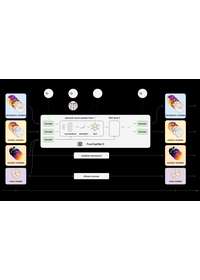
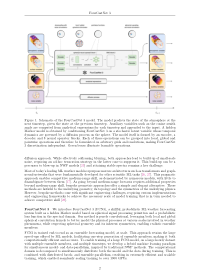
tweaks

diff --git a/bin/generate_publication_previews.py b/bin/generate_publication_previews.py
@@ -3,17 +3,17 @@
 Generate publication thumbnails for al-folio (preview={...} in papers.bib).
 
 Uses only the `pdf={...}` field from each BibTeX entry (http(s) URL or site path like `/files/thesis.pdf`).
-Picks the first page with a figure drawn large enough on the page (PyMuPDF), else page 1.
-Renders the full page, scaled to fit without cropping.
+Picks the first page with a large on-page figure, else the first page with a
+"Figure 1" caption, else the page with the largest embedded image, else page 1.
+Renders every thumbnail to a fixed 200×280 canvas (letterboxed).
 
 Usage:
   python3 bin/generate_publication_previews.py [--dry-run] [--force] [--clear] [--update-bib]
   python3 bin/generate_publication_previews.py --keys bonev2025fourcastnet3
 
-Requires: network for downloads. For PDF rendering, one of:
-  pdftoppm (poppler-utils), or gs (ghostscript).
-Optional: `pip install pymupdf` (recommended — detects figure pages)
-Image resize: ImageMagick `convert` or `magick` (optional; copies raw PNG if missing).
+Requires: network for downloads.
+Recommended: `pip install pymupdf Pillow` (page picking + rendering).
+Fallback rendering: pdftoppm (poppler-utils) or gs, plus ImageMagick for resize.
 
 Runs automatically in GitHub Actions before `jekyll build` (see .github/workflows/deploy.yml).
 Locally: `python3 bin/generate_publication_previews.py`
@@ -34,13 +34,18 @@ ROOT = Path(__file__).resolve().parents[1]
 BIB = ROOT / "_bibliography" / "papers.bib"
 OUT = ROOT / "assets" / "img" / "publication_preview"
 MANIFEST = ROOT / "_data" / "generated_previews.yml"
-# Max width × height; entire page visible (no crop). Matches publication list CSS.
-PREVIEW_MAX = "200x280"
+# Output size; matches publication list CSS.
+PREVIEW_W = 200
+PREVIEW_H = 280
+PREVIEW_MAX = f"{PREVIEW_W}x{PREVIEW_H}"
 UA = "ai-folio-preview-generator/1.0"
-# Minimum drawn figure size on the page (PDF points; 72 pt ≈ 1 inch).
-MIN_FIGURE_ON_PAGE_WIDTH = 150
-MIN_FIGURE_ON_PAGE_HEIGHT = 100
-MAX_PAGES_SCAN = 12
+MAX_PAGES_SCAN = 24
+# Figure must be a substantial part of the page (not logos/icons).
+MIN_FIGURE_WIDTH_FRAC = 0.22
+MIN_FIGURE_HEIGHT_FRAC = 0.12
+MIN_FIGURE_AREA_FRAC = 0.04
+BODY_MARGIN_Y = 0.07
+FIGURE_ONE_RE = re.compile(r"\b(?:Figure|Fig\.?)\s+1\b", re.IGNORECASE)
 
 
 def _http_get(url: str, timeout: int = 60) -> bytes:
@@ -207,8 +212,12 @@ def render_pdf_page(pdf: Path, page: int, out_png: Path) -> bool:
     return False
 
 
-def page_has_large_figure(page) -> bool:
-    """True if the page draws any embedded image above the minimum on-page size."""
+def _rect_in_body(rect, page_rect) -> bool:
+    cy = (rect.y0 + rect.y1) / 2
+    return BODY_MARGIN_Y * page_rect.height < cy < (1 - BODY_MARGIN_Y) * page_rect.height
+
+
+def _iter_image_rects(page):
     seen: set[int] = set()
     for img in page.get_images(full=True):
         xref = img[0]
@@ -216,42 +225,99 @@ def page_has_large_figure(page) -> bool:
             continue
         seen.add(xref)
         try:
-            rects = page.get_image_rects(xref)
+            yield from page.get_image_rects(xref)
         except Exception:
             continue
-        for rect in rects:
-            if (
-                rect.width >= MIN_FIGURE_ON_PAGE_WIDTH
-                and rect.height >= MIN_FIGURE_ON_PAGE_HEIGHT
-            ):
-                return True
+
+
+def page_has_large_figure(page) -> bool:
+    """True if the page draws a substantial figure in the body (not header/footer)."""
+    pw, ph = page.rect.width, page.rect.height
+    page_rect = page.rect
+    for rect in _iter_image_rects(page):
+        if not _rect_in_body(rect, page_rect):
+            continue
+        if (
+            rect.width >= MIN_FIGURE_WIDTH_FRAC * pw
+            and rect.height >= MIN_FIGURE_HEIGHT_FRAC * ph
+            and rect.width * rect.height >= MIN_FIGURE_AREA_FRAC * pw * ph
+        ):
+            return True
     return False
 
 
-def first_page_with_large_figure(pdf: Path) -> int | None:
-    """Return 1-based index of the first page with a large enough on-page figure."""
-    try:
-        import fitz  # PyMuPDF
-    except ImportError:
-        return None
-
-    doc = fitz.open(pdf)
-    try:
-        limit = min(MAX_PAGES_SCAN, doc.page_count)
-        for pno in range(limit):
-            if page_has_large_figure(doc[pno]):
-                return pno + 1
-    finally:
-        doc.close()
+def first_page_with_large_figure(doc) -> int | None:
+    limit = min(MAX_PAGES_SCAN, doc.page_count)
+    for pno in range(limit):
+        if page_has_large_figure(doc[pno]):
+            return pno + 1
     return None
 
 
-def choose_thumbnail_page(pdf_path: Path) -> tuple[int, str]:
+def first_page_with_figure1_caption(doc) -> int | None:
+    """First non-title page mentioning Figure 1 (helps vector-only PDFs)."""
+    limit = min(MAX_PAGES_SCAN, doc.page_count)
+    for pno in range(1, limit):
+        if FIGURE_ONE_RE.search(doc[pno].get_text() or ""):
+            return pno + 1
+    return None
+
+
+def page_with_largest_embedded_image(doc) -> int | None:
+    limit = min(MAX_PAGES_SCAN, doc.page_count)
+    best_page: int | None = None
+    best_area = 0.0
+    for pno in range(limit):
+        page = doc[pno]
+        page_area = page.rect.width * page.rect.height
+        for rect in _iter_image_rects(page):
+            area = rect.width * rect.height
+            if area >= 0.02 * page_area and area > best_area:
+                best_area = area
+                best_page = pno + 1
+    return best_page
+
+
+def choose_thumbnail_page(doc) -> tuple[int, str]:
     """Pick page to render. Returns (page_number, reason_tag)."""
-    figure_page = first_page_with_large_figure(pdf_path)
+    figure_page = first_page_with_large_figure(doc)
     if figure_page is not None:
         return figure_page, "figure-page"
+    caption_page = first_page_with_figure1_caption(doc)
+    if caption_page is not None:
+        return caption_page, "figure-1"
+    largest = page_with_largest_embedded_image(doc)
+    if largest is not None:
+        return largest, "largest-image"
     return 1, "first-page"
+
+
+def render_page_normalized(doc, page: int, dest: Path) -> bool:
+    """Render a PDF page to a fixed PREVIEW_W×PREVIEW_H PNG."""
+    import fitz
+
+    if page < 1 or page > doc.page_count:
+        return False
+    pg = doc[page - 1]
+    pw, ph = pg.rect.width, pg.rect.height
+    scale = min(PREVIEW_W / pw, PREVIEW_H / ph)
+    pix = pg.get_pixmap(matrix=fitz.Matrix(scale, scale), alpha=False)
+
+    try:
+        from PIL import Image
+    except ImportError:
+        tmp = dest.with_suffix(".raw.png")
+        pix.save(tmp)
+        resize_png(tmp, dest)
+        tmp.unlink(missing_ok=True)
+        return dest.is_file()
+
+    img = Image.frombytes("RGB", (pix.width, pix.height), pix.samples)
+    canvas = Image.new("RGB", (PREVIEW_W, PREVIEW_H), (255, 255, 255))
+    canvas.paste(img, ((PREVIEW_W - img.width) // 2, (PREVIEW_H - img.height) // 2))
+    dest.parent.mkdir(parents=True, exist_ok=True)
+    canvas.save(dest, "PNG")
+    return True
 
 
 def generate_preview(entry: dict, out: Path, dry_run: bool) -> str:
@@ -263,7 +329,6 @@ def generate_preview(entry: dict, out: Path, dry_run: bool) -> str:
 
     with tempfile.TemporaryDirectory(prefix="folio-preview-") as tmp:
         tmpdir = Path(tmp)
-        raw = tmpdir / "raw.png"
         pdf_path = tmpdir / "paper.pdf"
 
         if isinstance(pdf_src, Path):
@@ -274,11 +339,22 @@ def generate_preview(entry: dict, out: Path, dry_run: bool) -> str:
             if not download_pdf(pdf_src, pdf_path):
                 return ""
 
-        page, reason = choose_thumbnail_page(pdf_path)
+        page, reason = 1, "first-page"
+        try:
+            import fitz
+
+            doc = fitz.open(pdf_path)
+            page, reason = choose_thumbnail_page(doc)
+            if render_page_normalized(doc, page, out):
+                doc.close()
+                return f"{reason}-{page}"
+            doc.close()
+        except ImportError:
+            pass
+
         page_png = tmpdir / "thumb.png"
         if render_pdf_page(pdf_path, page, page_png):
-            shutil.copy2(page_png, raw)
-            resize_png(raw, out)
+            resize_png(page_png, out)
             return f"{reason}-{page}"
 
     return ""

diff --git a/_pages/about.md b/_pages/about.md
@@ -8,9 +8,6 @@ profile:
   align: right
   image: boris.jpg
   image_circular: true
-  address: >
-    <p><a href="https://scholar.google.com/citations?user=sYo-KS4AAAAJ">Google Scholar</a></p>
-    <p><a href="{{ '/assets/pdf/cv_boris.pdf' | relative_url }}">CV</a></p>
 
 news: false
 latest_posts: false
@@ -18,8 +15,6 @@ selected_papers: true
 social: true
 ---
 
-Boris Bonev is a Senior Research Scientist at NVIDIA Research in Zurich. His research lies at the intersection of numerical methods and machine learning for science and engineering, with emphasis on reliable AI for weather and climate prediction.
+Boris Bonev is a Senior Research Scientist at NVIDIA Research in Zurich. His research lies at the intersection of numerical methods and machine learning for science and engineering, with emphasis on reliable and trustworthy AI.
 
 He completed a Ph.D. in Applied Mathematics at the Swiss Federal Institute of Technology (EPFL) with Jan S. Hesthaven, after degrees in Physics and Aerospace Engineering from the University of Stuttgart. At NVIDIA, he worked under Anima Anandkumar and Alex Keller, and collaborated closely with Thorsten Kurth, Michael Pritchard, and William D. Collins. His recent work has focused on geometric neural operators for weather and climate prediction—including Spherical Fourier Neural Operators and related methods that have been adopted in FourCastNet, Huge Ensembles, ACE, and many other models. Earlier work spans hierarchical-matrix preconditioners and discontinuous Galerkin methods for wave problems.
-
-Further detail is on the [research]({{ '/research/' | relative_url }}) and [software]({{ '/software/' | relative_url }}) pages.

diff --git a/CONTENT.md b/CONTENT.md
@@ -27,11 +27,11 @@ Co-author links: add entries to [`_data/coauthors.yml`](_data/coauthors.yml) key
 
 ```bash
 sudo apt-get install -y poppler-utils ghostscript imagemagick   # once
-pip install pymupdf
+pip install pymupdf Pillow
 python3 bin/generate_publication_previews.py
 ```
 
-Add a direct link in the bib entry: `pdf={https://…/paper.pdf}` or `pdf={/files/your.pdf}` for site-local files. The script only reads `pdf=` (no URL guessing from `eprint` / `html`). It uses the first page where a figure is drawn large enough on the page (via PyMuPDF), otherwise page 1. The full page is scaled to fit without cropping.
+Add a direct link in the bib entry: `pdf={https://…/paper.pdf}` or `pdf={/files/your.pdf}` for site-local files. The script only reads `pdf=` (no URL guessing from `eprint` / `html`). It picks the first page with a large on-page figure, else the first page with a “Figure 1” caption, else the page with the largest embedded image, else page 1. All thumbnails are letterboxed to 200×280.
 
 **Clear and regenerate** (existing `{bibkey}.png` files are skipped unless you force):
 

diff --git a/_pages/research.md b/_pages/research.md
@@ -21,9 +21,9 @@ Much of this work has been applied to learned global weather and climate systems
 
 ## Numerical Methods
 
-My background is in numerical methods, with a focus on partial differential equations and numerical linear algebra. That training remains a source of inspiration for my ML work: stability, preconditioning, and multiscale structure show up in learned models, and ideas from ML feed back into how we build solvers and discretizations. I believe numerical methods and machine learning will ultimately form one cohesive field that integrates tools from both traditions.
+My background is in numerical methods, with a focus on partial differential equations and numerical linear algebra. That training remains a source of inspiration for my ML work: stability, preconditioning, and multiscale structure show up in learned models, and ideas from ML feed back into how we build solvers and discretizations. I believe numerical methods and machine learning will ultimately form one cohesive field that integrates methods from both domains.
 
-During my [PhD]({{ '/files/thesis_compressed.pdf' | relative_url }}), I worked on [approximate fast direct solvers](https://github.com/bonevbs/HierarchicalSolvers.jl) for Helmholtz-type problems ([SIAM paper](https://epubs.siam.org/doi/10.1137/20M1365958)) and [discontinuous Galerkin methods](https://doi.org/10.1016/j.jcp.2018.02.008) for global tsunami modeling ([Ocean Modelling](https://doi.org/10.1016/j.ocemod.2019.101429)). Here are some interesting samples:
+During my [PhD]({{ '/files/thesis_compressed.pdf' | relative_url }}), I worked on [approximate fast direct solvers](https://github.com/bonevbs/HierarchicalSolvers.jl) for Helmholtz-type problems ([SIAM paper](https://epubs.siam.org/doi/10.1137/20M1365958)) and [discontinuous Galerkin methods](https://doi.org/10.1016/j.jcp.2018.02.008) for global tsunami modeling ([Ocean Modelling](https://doi.org/10.1016/j.ocemod.2019.101429)). Here are some interesting examples:
 
 <div class="media-grid media-grid--2x3">
   <a href="{{ '/files/amr_showcase.mp4' | relative_url }}">